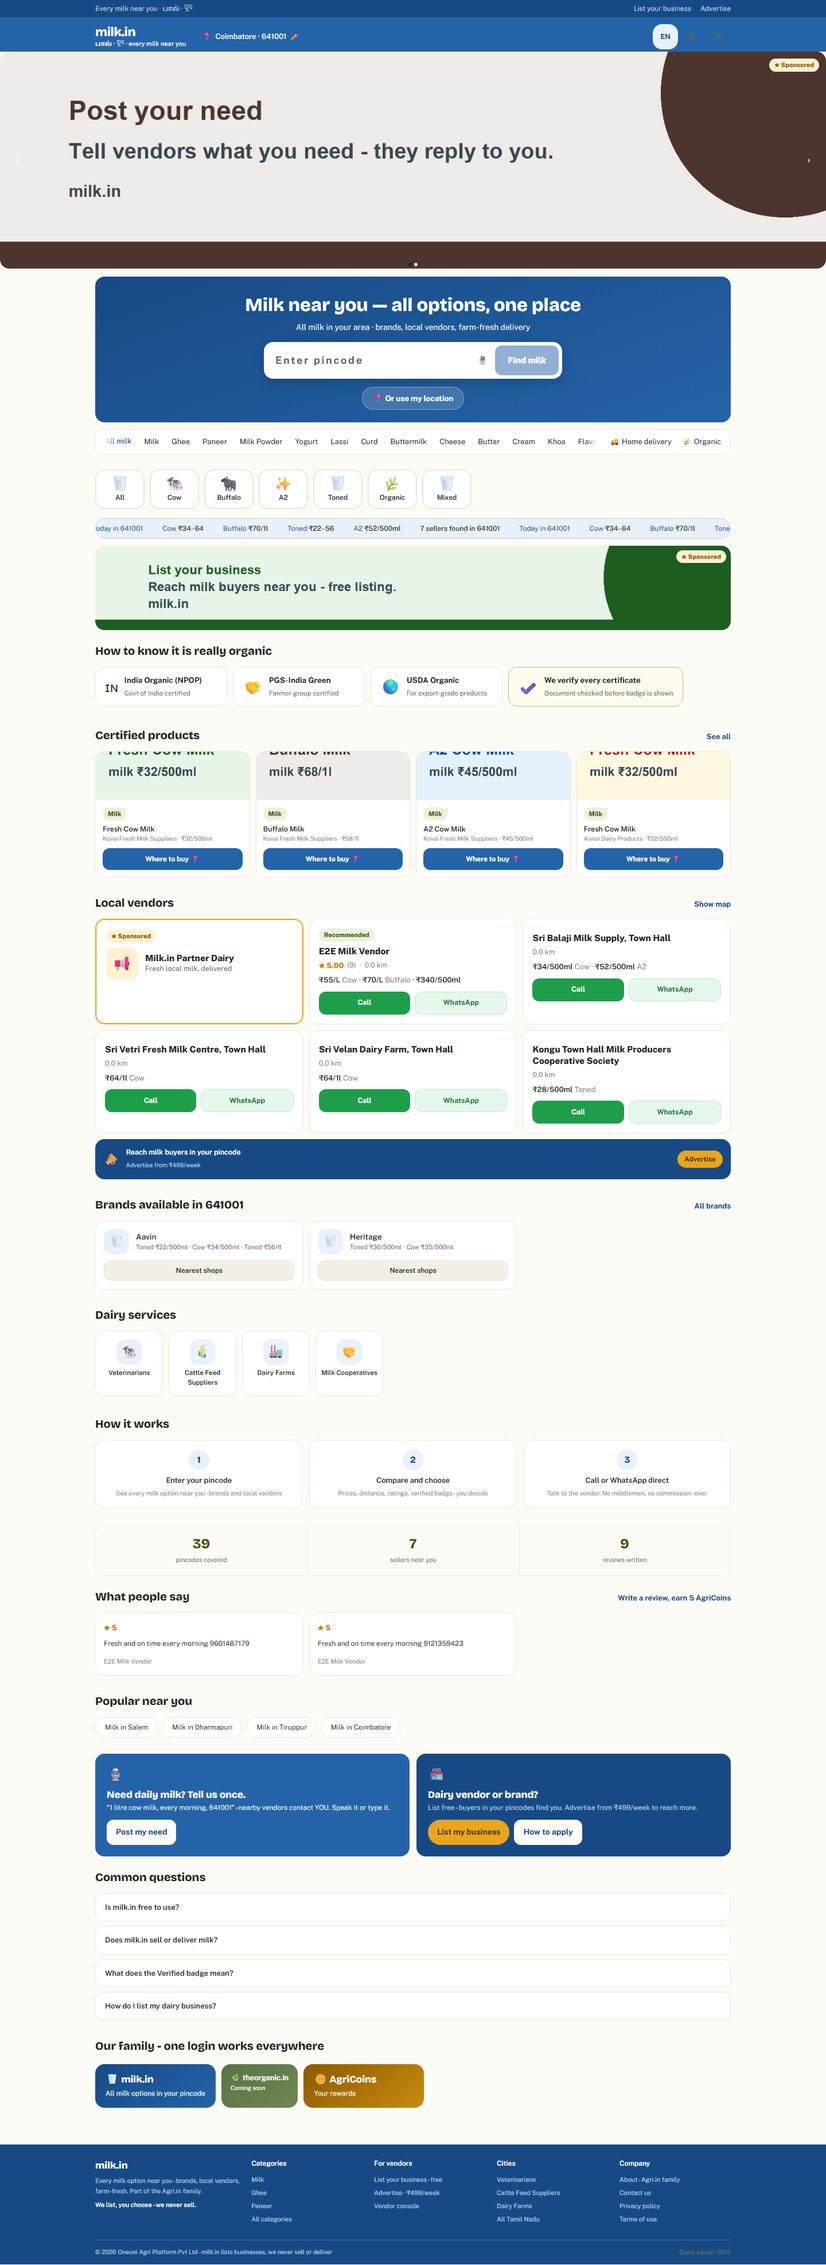
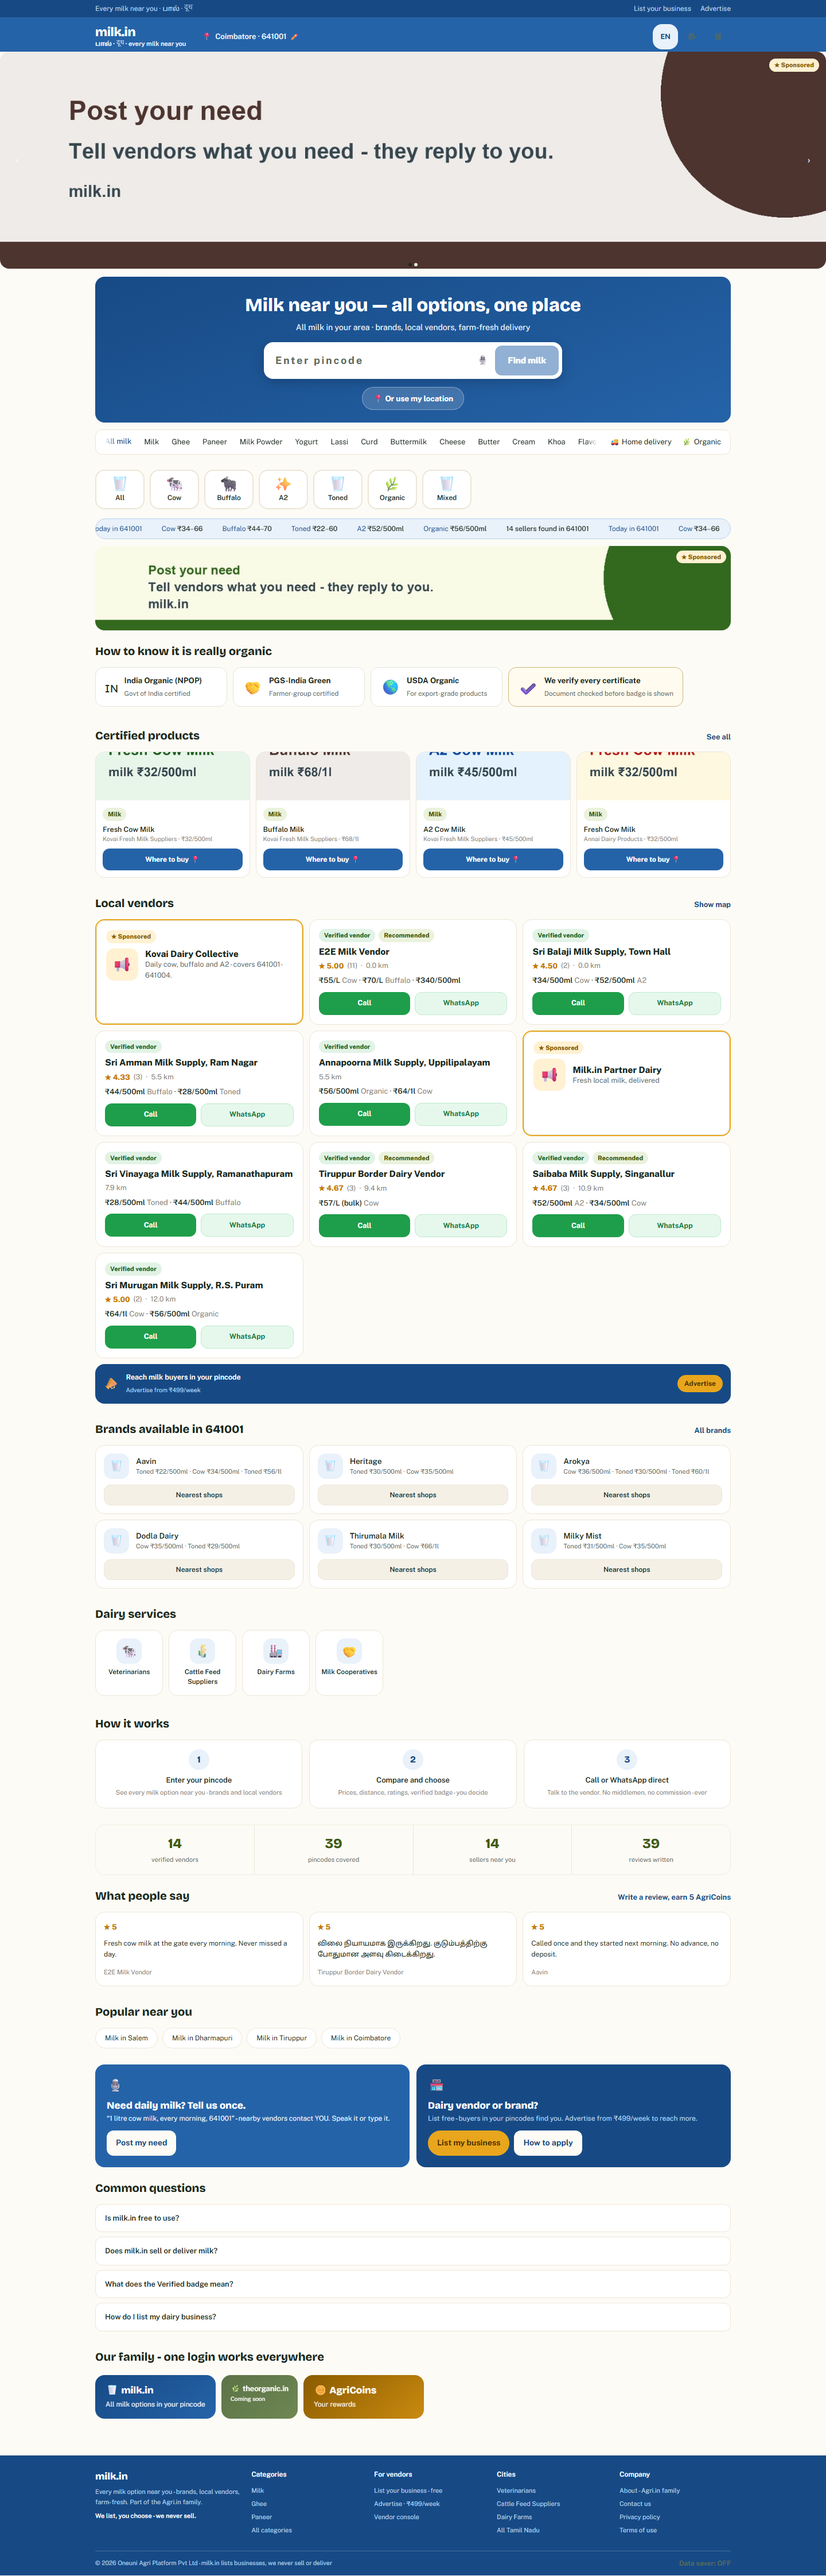
feat(u1): seed demo depth — verification, reviews and a real advertiser
The home rendered thin, but no section was missing. An audit of the launch
pincode found 101 covering businesses, exactly ONE verified, and TWO with any
review — so the Verified badge, the verified-vendors stat, every card rating
and the M3.C Recommended rail (which needs +3.0 from verification to clear
MIN_SCORE) all had nothing to show.

scripts/seed_u1_demo.py fills those three gaps and nothing else. It creates no
businesses: it decorates the ones the real vendor import already produced, so
the names, coverage and products stay the imported catalogue rather than
invented rows. Dev-only and idempotent — a second run reports +0/+0/+0.

  · 14 of 62 covering businesses verified — a deliberate minority, because a
    directory where everything is verified teaches the reader that the badge
    means nothing
  · approved reviews across 12 businesses from 10 authors, mixed EN/TA
  · a real non-house advertiser (Kovai Dairy Collective), geo-targeted and
    budgeted, on the hero, partner-banner and sponsored-listing slots

Rendered: 8 vendor cards (6 with a live rating), 6 brands, BOTH M3 sponsored
positions filled, 3 Recommended, 3 reviews from 3 distinct businesses, and all
four stats cells populated (14 verified · 39 pincodes · 14 sellers · 39
reviews) where "verified vendors" had been hidden for reading 0.

Two bugs this surfaced and fixes:

  · the first run created 41 approved reviews but only 2 rating_aggregates, so
[…]

Changed region(s): [[0.0, 0.0, 1.0, 0.9972], [0.7188, 0.6544, 0.8125, 0.7167], [0.4688, 0.6856, 0.5312, 0.7167]]

diff --git a/apps/web-milk/lib/home.ts b/apps/web-milk/lib/home.ts
@@ -127,10 +127,21 @@ export async function fetchHomeData(pincode: string): Promise<HomeData> {
   }
 
   // Highest-rated first so the strip leads with the strongest social proof,
-  // then a stable id tiebreak so ISR revalidations don't reshuffle the page.
+  // then a stable id tiebreak so a re-render doesn't reshuffle the page.
   reviews.sort((a, b) => b.rating - a.rating || a.id.localeCompare(b.id));
 
-  return { home, ratings, reviews, coveredPincodes };
+  // At most one review per business. Without this the strip reads as three
+  // testimonials but shows the same vendor two or three times, because a
+  // single well-reviewed business owns all the top-rated rows — which makes
+  // the marketplace look smaller than it is, not larger.
+  const seen = new Set<string>();
+  const distinct = reviews.filter((review) => {
+    if (seen.has(review.business.slug)) return false;
+    seen.add(review.business.slug);
+    return true;
+  });
+
+  return { home, ratings, reviews: distinct, coveredPincodes };
 }
 
 /** §8b stats — every number traced to a real source, or the cell is hidden. */

diff --git a/backend/core/scripts/seed_u1_demo.py b/backend/core/scripts/seed_u1_demo.py
@@ -1,0 +1,311 @@
+"""U1 demo depth: make the milk home look like a live marketplace.
+
+The database already has ~100 businesses covering the launch pincode, but the
+home rendered thin because three signals were almost absent:
+
+  * verification - exactly ONE covering business was `verified`, so the
+    "Verified vendor" badge, the verified-vendors stat and the M3.C
+    Recommended rail (which needs +3.0 from verification to clear MIN_SCORE)
+    had nothing to show;
+  * reviews - only two businesses had any, so vendor cards carried no rating
+    and the reviews strip showed the same vendor twice;
+  * advertisers - every creative belonged to the house advertiser, so the ad
+    surfaces never demonstrated a real paid placement.
+
+This script fills those three gaps and nothing else. It creates no businesses:
+it decorates the ones the real vendor import already produced, which keeps the
+demo honest (the names, coverage and products are the imported catalogue, not
+invented rows).
+
+Idempotent: verification is reconciled, reviews are keyed on (author, target)
+via the D18 one-per-user constraint, and campaigns are keyed on name.
+
+Run (after seed_e2e_milk.py / import_vendor_seed.py):
+    cd backend/core
+    .venv/Scripts/python.exe scripts/seed_u1_demo.py [--pincode 641001]
+"""
+
+import argparse
+import asyncio
+import uuid
+from datetime import date, timedelta
+
+from sqlalchemy import func, select, text
+from sqlalchemy.ext.asyncio import AsyncSession
+
+from modules.ads.models import Campaign, Creative, Placement
+from modules.directory import reviews_service
+from modules.directory import service as directory_service
+from modules.directory.models import Business
+from modules.identity import service as identity_service
+from shared.db import get_sessionmaker
+from shared.dev_only import refuse_in_prod
+
+_DEFAULT_PINCODE = "641001"
+# How many covering businesses to verify / review. Deliberately a MINORITY of
+# the ~100 covering rows: a directory where everything is verified teaches the
+# reader that the badge is meaningless.
+_VERIFY_COUNT = 14
+_REVIEW_BUSINESSES = 12
+_ADVERTISER = "Kovai Dairy Collective"
+
+# Review authors. Real identity users (reviews.author_user_id is a user id and
+# the D18 unique constraint is per author+target), so one author can review
+# many businesses but never the same one twice.
+_AUTHOR_PHONES = [f"+9190000001{n:02d}" for n in range(10)]
+
+# (rating, body). Mixed EN/TA on purpose - the reviews strip renders the
+# reader's locale when the author wrote in it and falls back to what they
+# actually wrote, so a Tamil review must survive on /en.
+_REVIEW_TEXTS: list[tuple[int, dict[str, str]]] = [
+    (5, {"en": "Fresh cow milk at the gate every morning. Never missed a day."}),
+    (5, {"ta": "நல்ல தரமான பால். தினமும் காலை சரியான நேரத்தில் வருகிறது."}),
+    (4, {"en": "Good milk and fair price. Delivery is sometimes ten minutes late."}),
+    (5, {"en": "Switched from a packet brand to this farm. The difference is obvious."}),
+    (5, {"ta": "விலை நியாயமாக இருக்கிறது. குடும்பத்திற்கு போதுமான அளவு கிடைக்கிறது."}),
+    (4, {"en": "Buffalo milk is thick and clean. Bottles are collected back."}),
+    (5, {"en": "Called once and they started next morning. No advance, no deposit."}),
+    (4, {"ta": "பண்ணையில் இருந்து நேரடியாக வருகிறது. நம்பிக்கையாக இருக்கு."}),
+    (5, {"en": "A2 milk was hard to find nearby until I searched here."}),
+    (4, {"en": "Curd and ghee are also good. Ordering on WhatsApp is easy."}),
+]
+
+# Sample ADS from a real (non-house) advertiser: geo-targeted to the launch
+# pincode, with a serve budget, so the surfaces demonstrate a paid placement
+# rather than only first-party house fill.
+_ADS: list[tuple[str, str, dict[str, dict[str, str]], str]] = [
+    (
+        "hero",
+        "milk_home_hero_xl",
+        {
+            "en": {
+                "title": "Farm-fresh A2 milk, delivered by 6 AM",
+                "body": "Kovai Dairy Collective - 40 farmer families, one doorstep.",
+            },
+            "ta": {
+                "title": "பண்ணை புதிய A2 பால், காலை 6 மணிக்குள்",
+                "body": "கோவை பால் கூட்டமைப்பு - 40 விவசாய குடும்பங்கள்.",
+            },
+            "hi": {
+                "title": "ताज़ा A2 दूध, सुबह 6 बजे तक",
+                "body": "कोवई डेयरी कलेक्टिव - 40 किसान परिवार।",
+            },
+        },
+        "/coimbatore/641001",
+    ),
+    (
+        "banner",
+        "milk_category_banner",
+        {
+            "en": {
+                "title": "Ghee pressed the old way",
+                "body": "Wood-churned, this week only.",
+            },
+            "ta": {"title": "பாரம்பரிய முறையில் நெய்", "body": "இந்த வாரம் மட்டும்."},
+            "hi": {"title": "पारंपरिक तरीके से घी", "body": "सिर्फ़ इस हफ़्ते।"},
+        },
+        "/p/ghee",
+    ),
+    (
+        "listing",
+        "milk_sponsored_listing",
+        {
+            "en": {
+                "title": "Kovai Dairy Collective",
+                "body": "Daily cow, buffalo and A2 - covers 641001-641004.",
+            },
+            "ta": {
+                "title": "கோவை பால் கூட்டமைப்பு",
+                "body": "பசு, எருமை, A2 - 641001-641004 பகுதிகளில்.",
+            },
+            "hi": {
+                "title": "कोवई डेयरी कलेक्टिव",
+                "body": "गाय, भैंस और A2 - 641001-641004 में।",
+            },
+        },
+        "/coimbatore/641001",
+    ),
+]
+
+# Covering businesses that actually surface on the home: active, with at least
+# one approved+active milk product. Same predicate milk_home() uses, so this
+# never decorates a business the page will not show.
+_COVERING_SQL = text(
+    """
+    SELECT DISTINCT b.id
+    FROM directory.business_coverage c
+    JOIN directory.businesses b
+      ON b.id = c.business_id AND b.status = 'active' AND b.deleted_at IS NULL
+    WHERE c.pincode = :pincode
+      AND EXISTS (
+        SELECT 1 FROM directory.products pr
+        WHERE pr.business_id = b.id AND pr.vertical_slug = 'milk'
+          AND pr.moderation_status = 'approved' AND pr.status = 'active'
+          AND pr.deleted_at IS NULL
+      )
+    ORDER BY b.id
+    """
+)
+
+
+async def _covering(session: AsyncSession, pincode: str) -> list[uuid.UUID]:
+    rows = await session.execute(_COVERING_SQL, {"pincode": pincode})
+    return [r[0] for r in rows]
+
+
+async def _verify(session: AsyncSession, ids: list[uuid.UUID]) -> int:
+    """Mark a minority of covering businesses `verified` - the same column the
+    D16 claim-decision route sets. Reconciles rather than duplicating."""
+    changed = 0
+    for business_id in ids[:_VERIFY_COUNT]:
+        business = await session.get(Business, business_id)
+        if business is None or business.verification_status == "verified":
+            continue
+        business.verification_status = "verified"
+        changed += 1
+    if changed:
+        await session.commit()
+    return changed
+
+
+async def _authors(session: AsyncSession) -> list[uuid.UUID]:
+    out: list[uuid.UUID] = []
+    for phone in _AUTHOR_PHONES:
+        user = await identity_service.get_by_phone(session, phone)
+        if user is None:
+            user = await identity_service.create_user(session, phone)
+            await session.commit()
+        out.append(user.id)
+    return out
+
+
+async def _review(session: AsyncSession, ids: list[uuid.UUID], authors: list[uuid.UUID]) -> int:
+    """Spread approved reviews across businesses.
+
+    `reviews_service.moderate()` deliberately does NOT touch the cached
+    aggregate - the admin route calls `recompute_aggregate()` after it. This
+    script is standing in for that route, so it must do the same: without the
+    recompute the rows exist but every card reads rating 0, which is exactly
+    what happened on the first run here.
+
+    The recompute runs for every business touched, not only ones that gained
+    a review, so a re-run repairs aggregates left behind by an earlier pass.
+    """
+    added = 0
+    for index, business_id in enumerate(ids[:_REVIEW_BUSINESSES]):
+        # 2-3 reviews each, from different authors, so counts vary per card.
+        for offset in range(2 + (index % 2)):
+            author = authors[(index * 3 + offset) % len(authors)]
+            held = await session.scalar(
+                select(func.count())
+                .select_from(reviews_service.Review)
+                .where(
+                    reviews_service.Review.author_user_id == author,
+                    reviews_service.Review.target_type == "business",
+                    reviews_service.Review.target_id == business_id,
+                )
+            )
+            if held:
+                continue
+            rating, body = _REVIEW_TEXTS[(index * 3 + offset) % len(_REVIEW_TEXTS)]
+            review = await reviews_service.create_review(
+                session,
+                author_user_id=author,
+                target_type="business",
+                target_id=business_id,
+                rating=rating,
+                body=body,
+            )
+            await session.commit()
+            await reviews_service.moderate(session, review_id=review.id, approve=True)
+            await session.commit()
+            added += 1
+        # What the admin route does after every decision. Skipping it is why
+        # 41 approved reviews once produced only 2 rating aggregates.
+        await reviews_service.recompute_aggregate(
+            session, target_type="business", target_id=business_id
+        )
+        await session.commit()
+    return added
+
+
+async def _ads(session: AsyncSession, pincode: str) -> int:
+    """A real advertiser with geo-targeted, budgeted, approved creatives.
+
+    Serve-time `is_servable()` is fail-closed, so the advertiser must be a real
+    active directory business - the same requirement seed_house_ads.py
+    documents for the house advertiser.
+    """
+    advertiser = await session.scalar(select(Business).where(Business.name == _ADVERTISER))
+    if advertiser is None:
+        advertiser = await directory_service.create_business(
+            session,
+            owner_user_id=uuid.uuid4(),  # not an FK into identity (module independence)
+            name=_ADVERTISER,
+            type_="shop",
+            primary_pincode=pincode,
+        )
+        await session.commit()
+
+    today = date.today()
+    added = 0
+    for tag, slot_key, copy, path in _ADS:
+        name = f"Demo - {_ADVERTISER} - {tag}"
+        if await session.scalar(select(Campaign).where(Campaign.name == name)):
+            continue
+        campaign = Campaign(
+            advertiser_business_id=advertiser.id,
+            name=name,
+            status="active",
+            flight_start=today - timedelta(days=1),
+            flight_end=today + timedelta(days=365),
+            budget_display="Demo budget",
+            budget_serves_total=100_000,
+        )
+        session.add(campaign)
+        await session.flush()
+        session.add(
+            Creative(
+                campaign_id=campaign.id,
+                media_keys=[],  # copy-only: renders the text variant, which reads
+                # correctly at every slot size (see seed_sample_media._SLOT_SIZES)
+                copy=copy,
+                target_url=f"http://localhost:3000{path}",
+                moderation_status="approved",
+            )
+        )
+        session.add(
+            Placement(
+                campaign_id=campaign.id,
+                slot_key=slot_key,
+                geo_target={"pincodes": [pincode]},
+                weight=1,
+            )
+        )
+        await session.commit()
+        added += 1
+    return added
+
+
+async def run(pincode: str) -> None:
+    refuse_in_prod("seed_u1_demo.py")
+    sessionmaker = get_sessionmaker()
+    async with sessionmaker() as session:
+        ids = await _covering(session, pincode)
+        if not ids:
+            print(f"seed_u1_demo: no covering businesses at {pincode} - run the seeds first")  # noqa: T201
+            return
+        verified = await _verify(session, ids)
+        authors = await _authors(session)
+        reviews = await _review(session, ids, authors)
+        ads = await _ads(session, pincode)
+    print(  # noqa: T201
+        f"seed_u1_demo: {len(ids)} covering at {pincode} -> "
+        f"+{verified} verified, +{reviews} approved reviews, +{ads} advertiser campaigns"
+    )
+
+
+if __name__ == "__main__":
+    parser = argparse.ArgumentParser()
+    parser.add_argument("--pincode", default=_DEFAULT_PINCODE)
+    asyncio.run(run(parser.parse_args().pincode))

diff --git a/docs/design-reference/polish-u1.md b/docs/design-reference/polish-u1.md
@@ -330,6 +330,43 @@ Two audits are therefore outstanding and CI remains the arbiter. What is *not*
 outstanding is the metric this change actually put at risk — CLS — which is
 measured above.
 
+### 4b. Demo depth (`scripts/seed_u1_demo.py`)
+
+The home rendered thin not because sections were missing but because three
+signals were nearly absent in the seeded data. An audit of the launch pincode
+found **101 covering businesses, exactly 1 verified, and 2 with any review**.
+
+`seed_u1_demo.py` fills those three gaps and nothing else. It creates **no
+businesses** — it decorates the ones the real vendor import already produced,
+so the names, coverage and products stay the imported catalogue rather than
+invented rows. Dev-only (`refuse_in_prod`) and idempotent (a second run
+reports `+0 / +0 / +0`).
+
+| Signal | Before | After |
+| --- | --- | --- |
+| Verified covering businesses | 1 | 14 (a deliberate minority of 62 — a directory where everything is verified teaches the reader the badge is meaningless) |
+| Businesses with approved reviews | 2 | 12, spread across authors, mixed EN/TA bodies |
+| Advertisers | house only | + `Kovai Dairy Collective`, geo-targeted and budgeted, on the hero, partner-banner and sponsored-listing slots |
+
+Rendered result: 8 vendor cards (6 with a live rating), 6 brands, **2 sponsored
+positions** (M3 fills both `SPONSORED_POSITIONS` once two ads exist), 3
+Recommended, 3 reviews from **3 distinct businesses**, and all four stats cells
+populated (14 verified vendors · 39 pincodes covered · 14 sellers · 39 reviews)
+where `verified vendors` had previously been hidden for reading 0.
+
+**A bug this surfaced.** The first run created 41 approved reviews but only 2
+`rating_aggregates`, so every card still read rating 0.
+`reviews_service.moderate()` deliberately does *not* touch the cached
+aggregate — the admin route calls `recompute_aggregate()` after it, and the
+seeder was standing in for that route without doing the same. Fixed, and the
+recompute now runs for every business touched (not only ones that gained a
+review) so a re-run repairs aggregates left by an earlier pass.
+
+**A UI bug this surfaced.** With one heavily-reviewed business, the reviews
+strip showed the same vendor three times — it sorts by rating, and that
+business owned every top row. The strip now takes at most one review per
+business, so three testimonials mean three businesses.
+
 ### Open items and deviations
 
 1. **`milk_global_header` unmounted — owner-approved.** It sat in the shared
